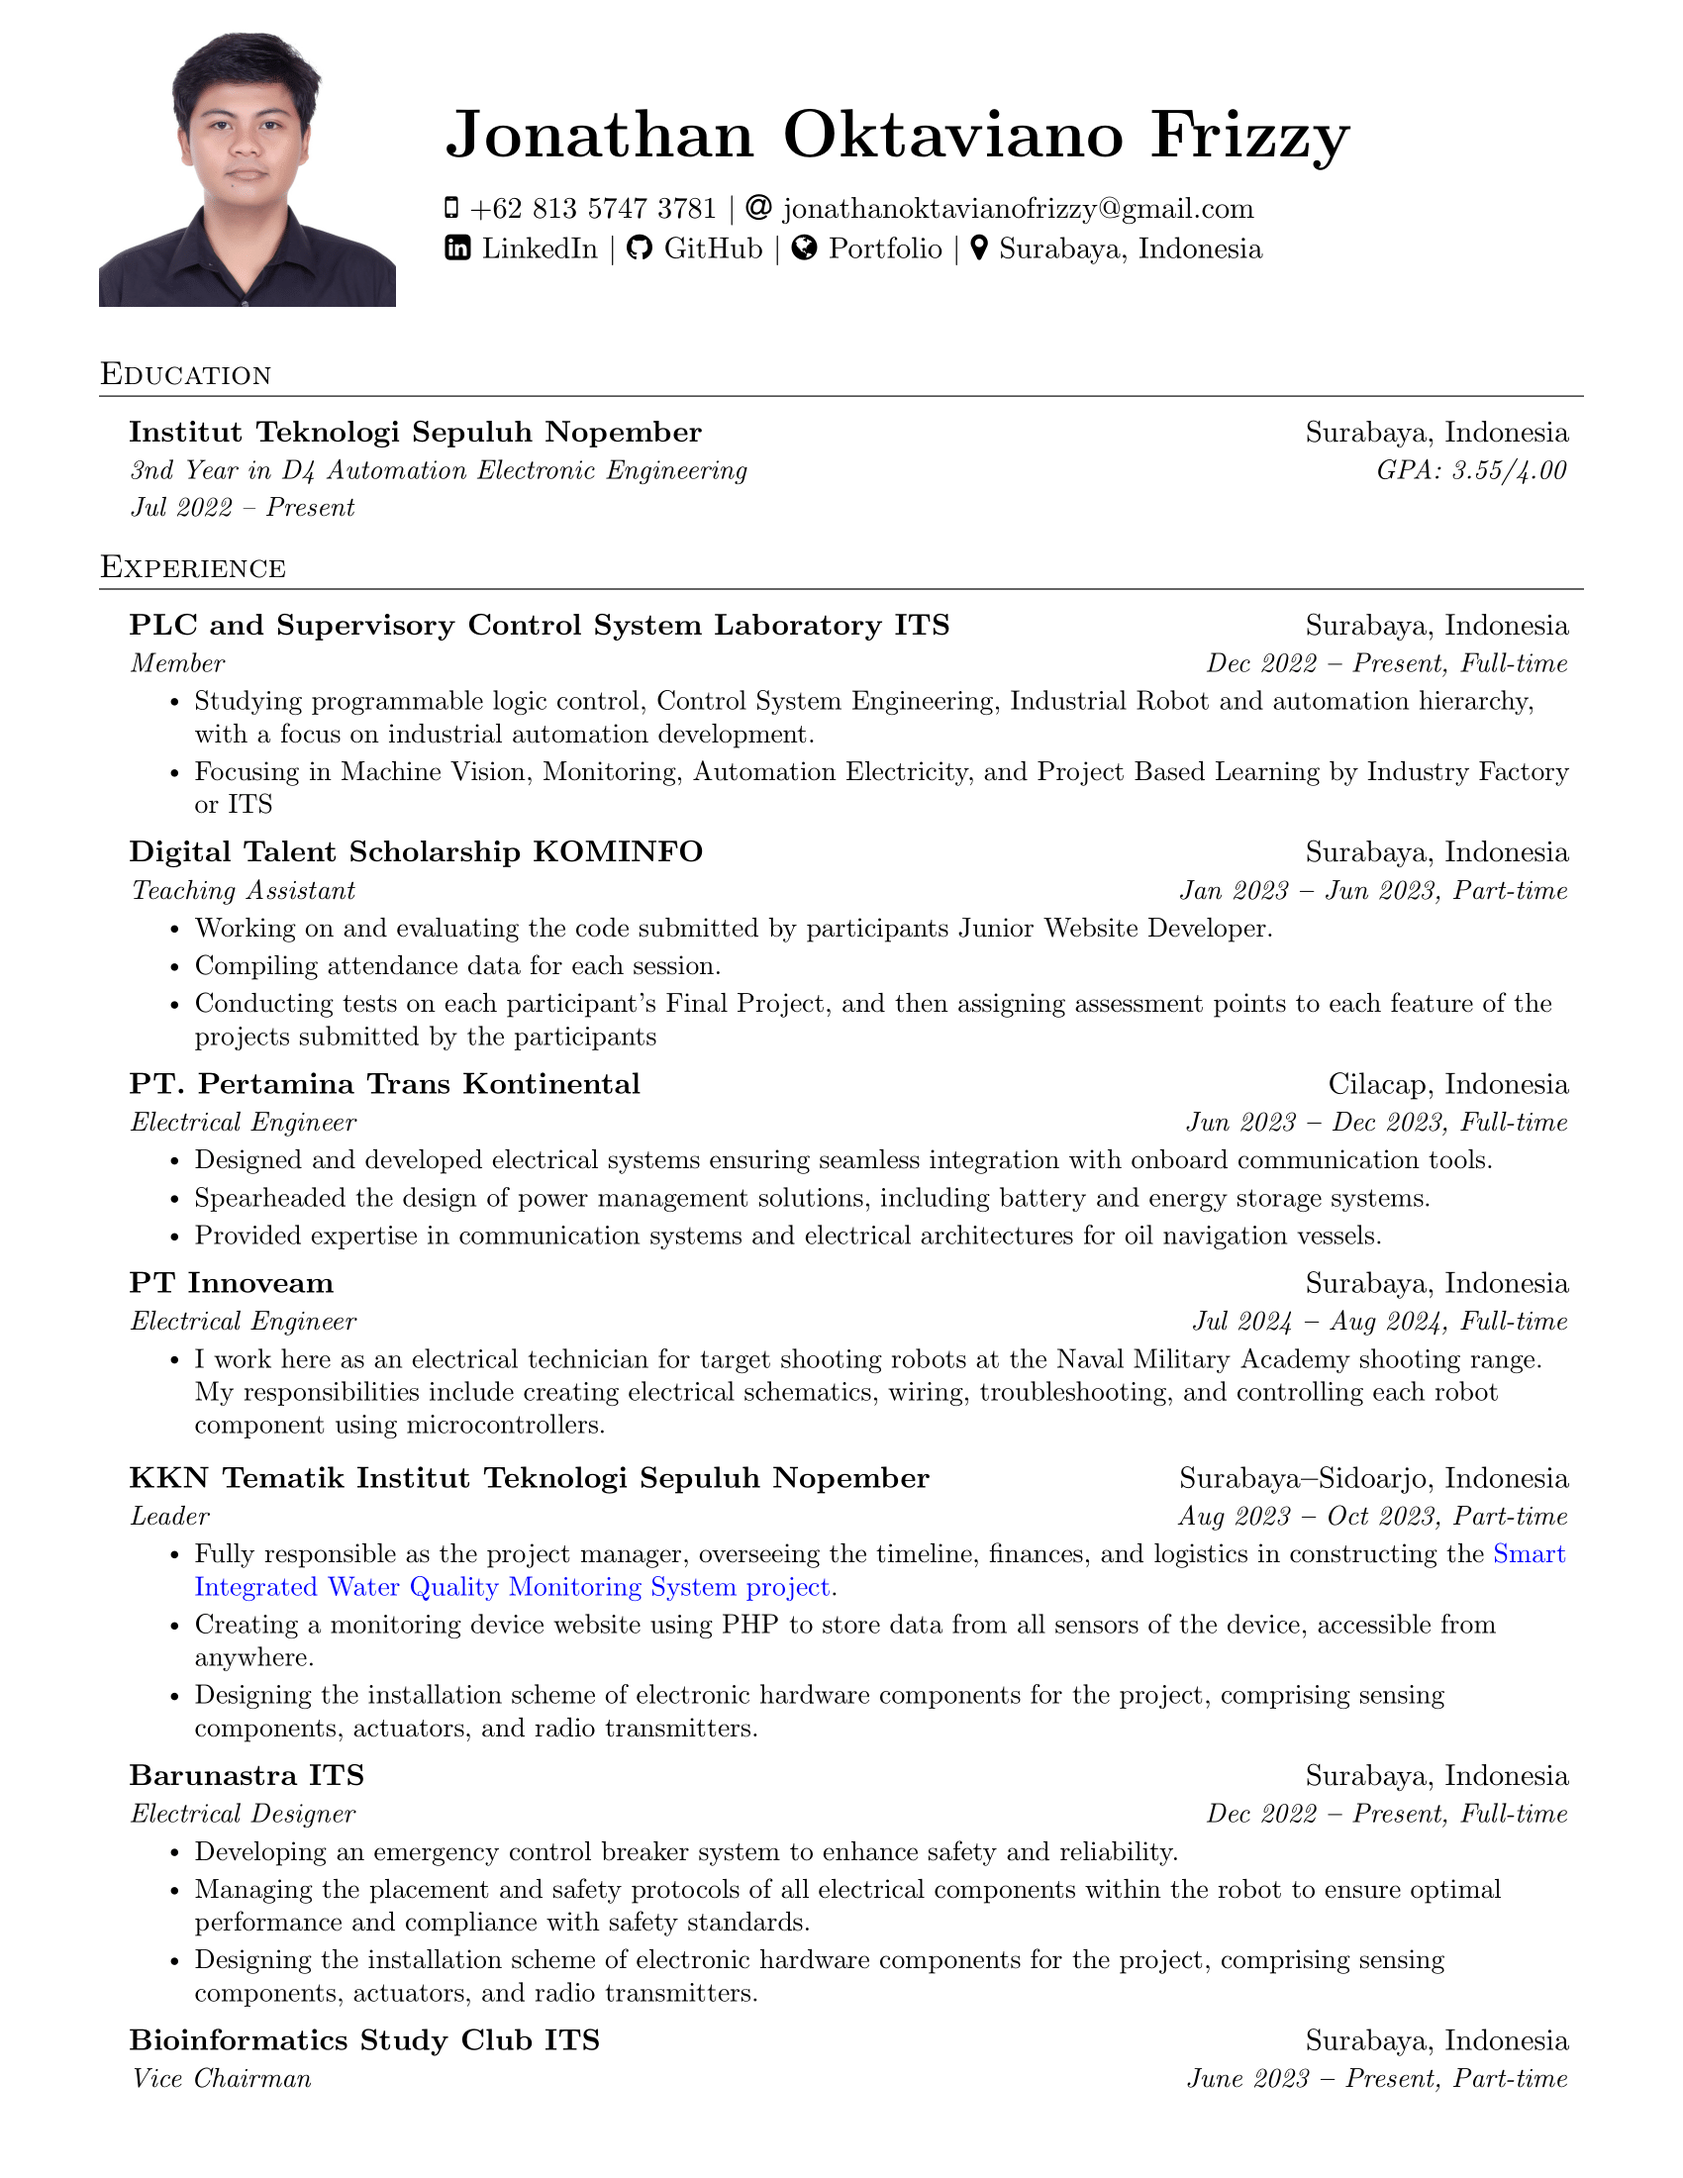
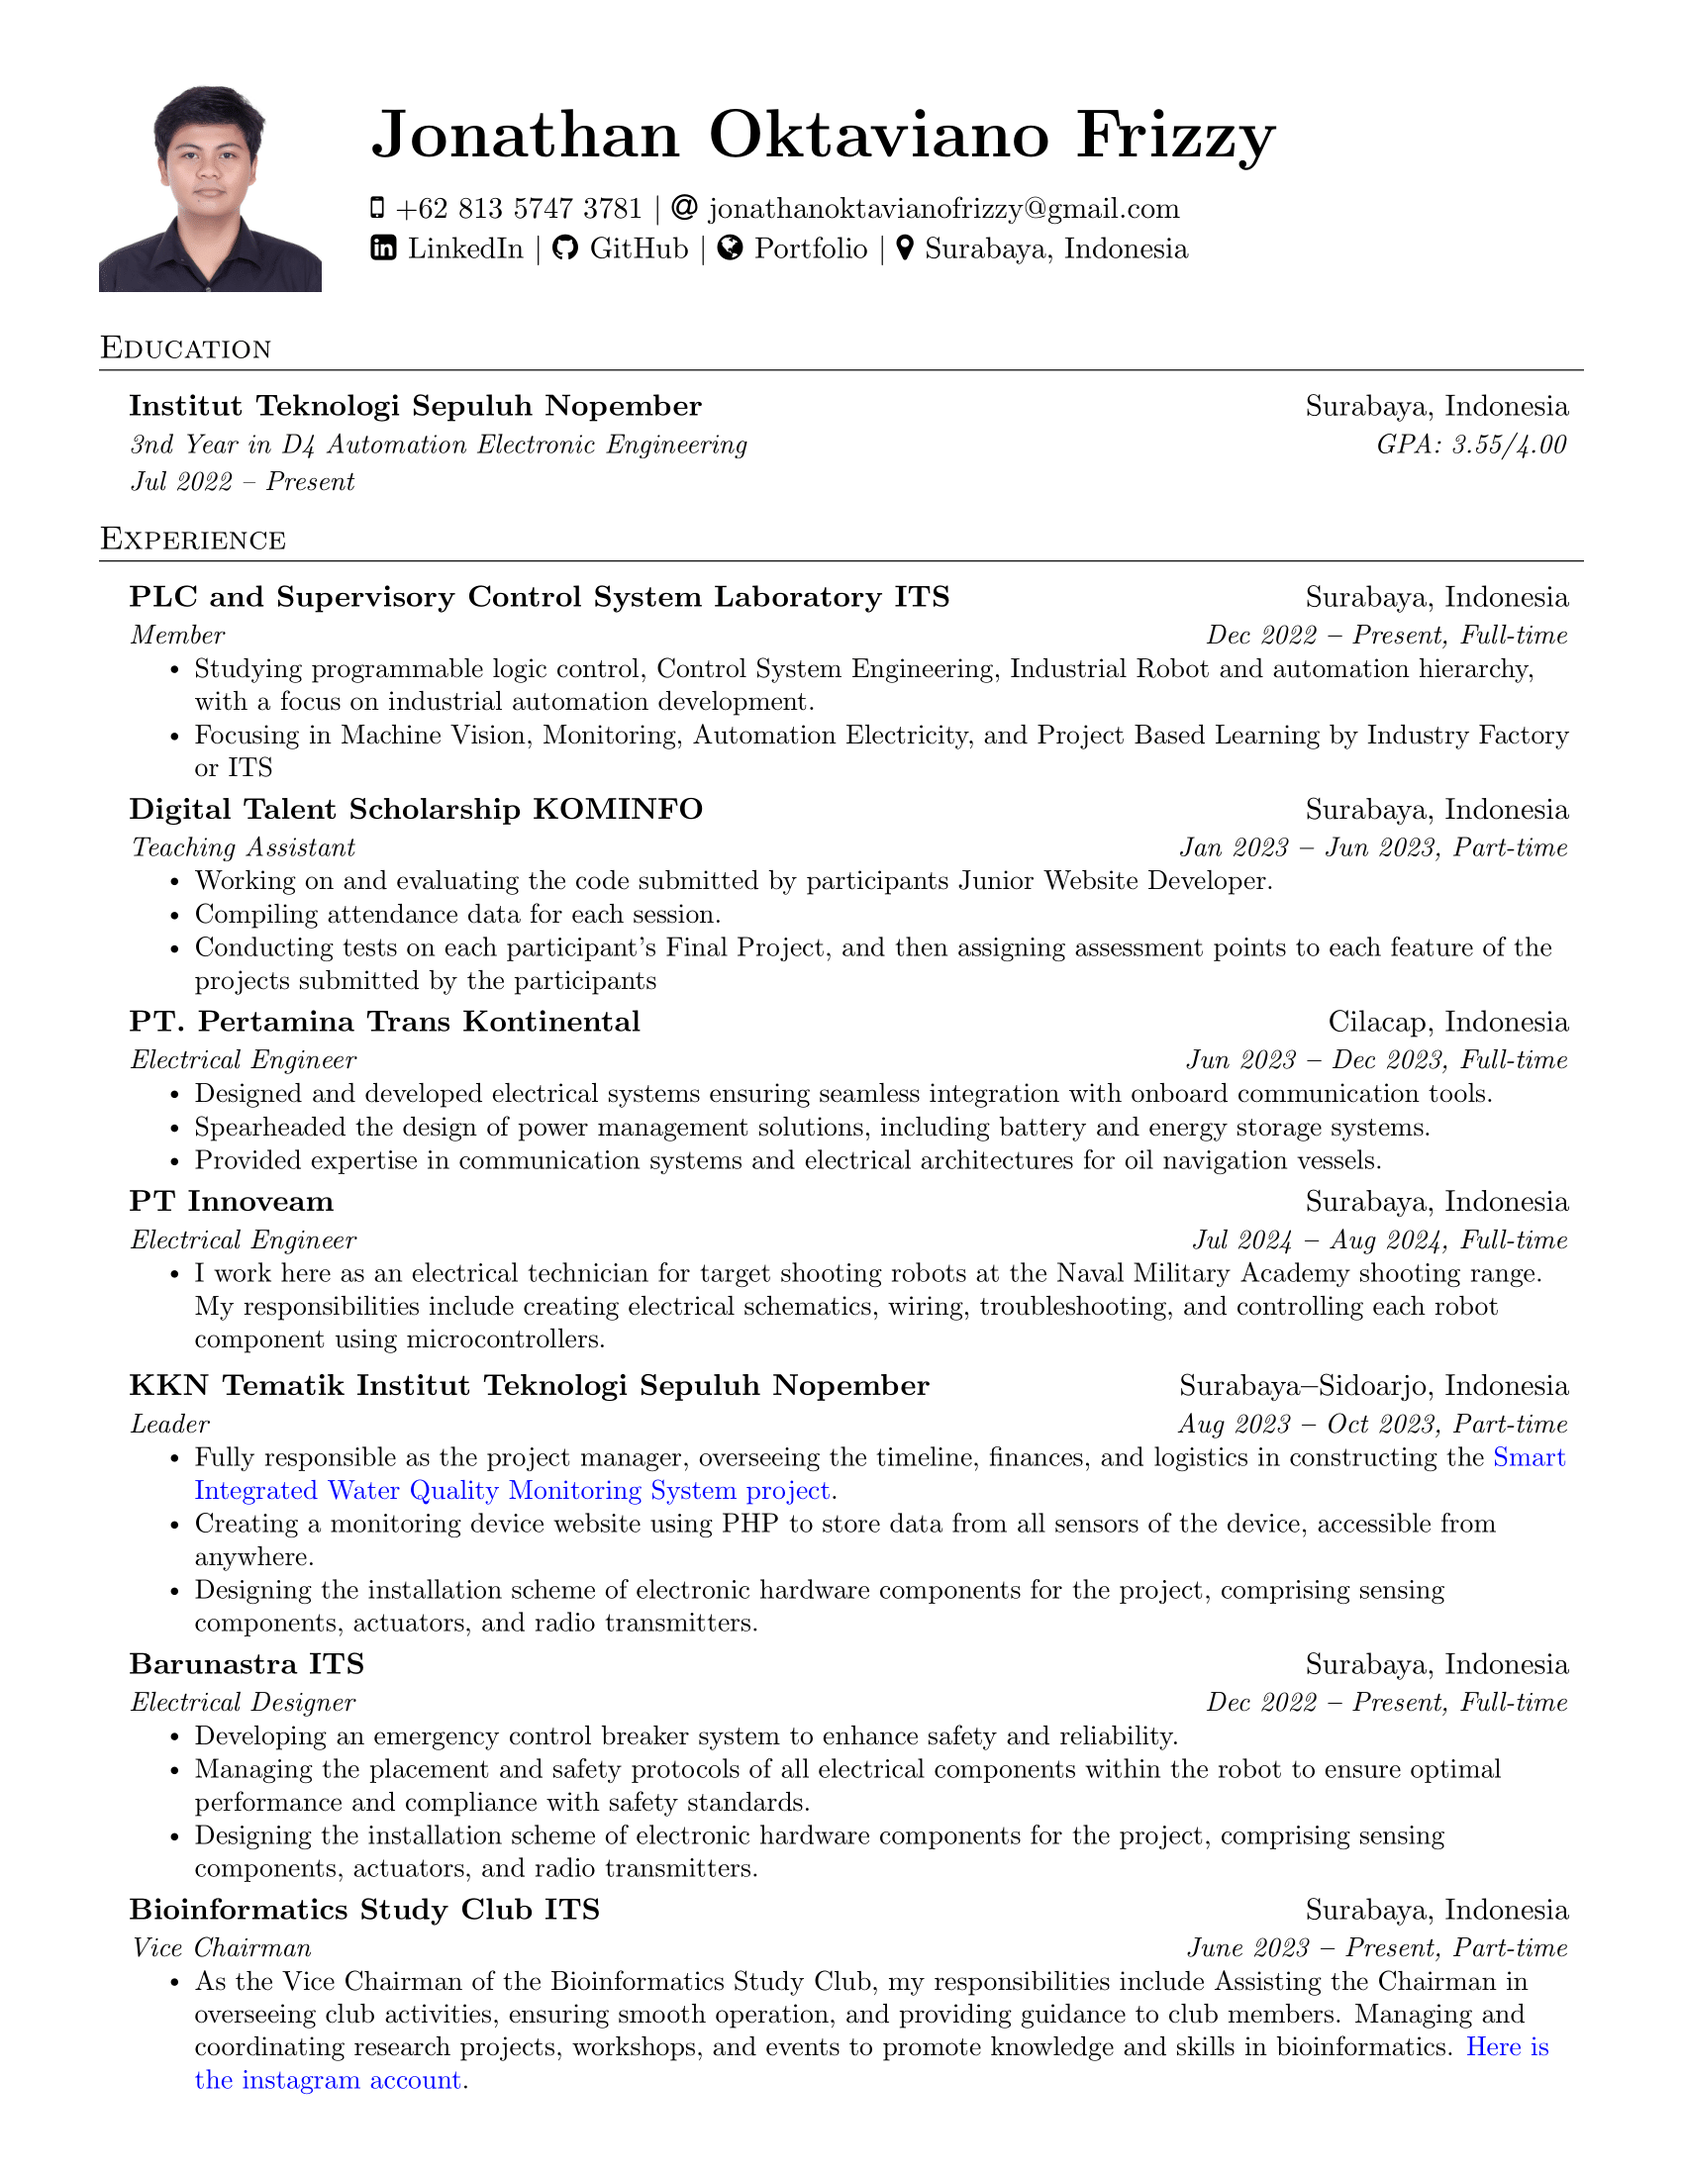
refacto: エクスペリエンスの更新と Latex コード

Changed region(s): [[0.0624, 0.0, 0.9353, 0.9582], [0.7794, 0.1855, 0.9353, 0.2164]]

diff --git a/main.tex b/main.tex
@@ -132,8 +132,8 @@
 
 % HEADING
 \begin{tabularx}{\textwidth}{@{}l X@{}}
-    \begin{minipage}[c][6em][t]{0.2\textwidth} % 6em adalah tinggi vertikal ruangan untuk gambar
-        \vspace{-3.em} % Ruang tambahan sebelum gambar
+    \begin{minipage}[c][6em][t]{0.15\textwidth} % 6em adalah tinggi vertikal ruangan untuk gambar
+        \vspace{-1 em} % Ruang tambahan sebelum gambar
         \includegraphics[width=\textwidth]{fix.jpg} % Mengatur lebar gambar agar sesuai
     \end{minipage}
     \hspace{5 mm} % Menambahkan spasi antara gambar dan konten di kanan
@@ -151,7 +151,7 @@
         \faMapMarker \hspace{.5pt} \href{https://maps.app.goo.gl/3KcJKWS8gMk1GiZMA}{Surabaya, Indonesia} \\
     \end{tabular}
 \end{tabularx}
-\vspace{1em}
+\vspace{.2em}
 
 %----------- EDUCATION -----------
 
